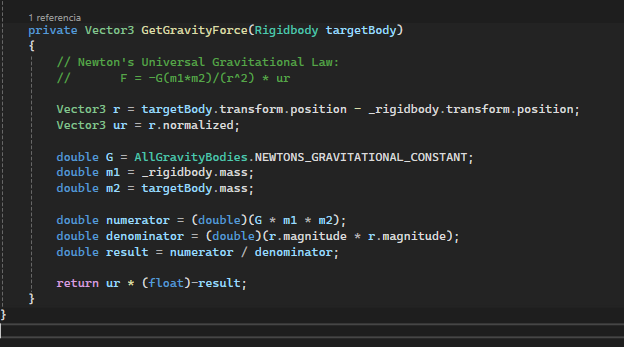
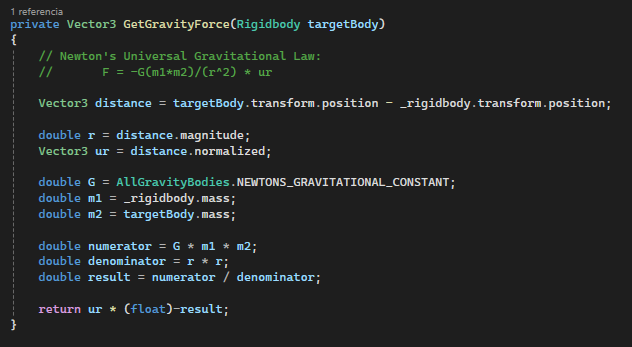
fix(gravity): GetGravity small adjustment

diff --git a/Assets/Scripts/Systems/Gravity/GravityBodyEmitter.cs b/Assets/Scripts/Systems/Gravity/GravityBodyEmitter.cs
@@ -44,15 +44,17 @@ public class GravityBodyEmitter : MonoBehaviour, IInitializable
         // Newton's Universal Gravitational Law:
         //       F = -G(m1*m2)/(r^2) * ur     
 
-        Vector3 r = targetBody.transform.position - _rigidbody.transform.position;
-        Vector3 ur = r.normalized;
+        Vector3 distance = targetBody.transform.position - _rigidbody.transform.position;
+
+        double r = distance.magnitude;
+        Vector3 ur = distance.normalized;
 
         double G = AllGravityBodies.NEWTONS_GRAVITATIONAL_CONSTANT;
         double m1 = _rigidbody.mass;
         double m2 = targetBody.mass;
 
-        double numerator = (double)(G * m1 * m2);
-        double denominator = (double)(r.magnitude * r.magnitude);
+        double numerator = G * m1 * m2;
+        double denominator = r * r;
         double result = numerator / denominator;
 
         return ur * (float)-result;
